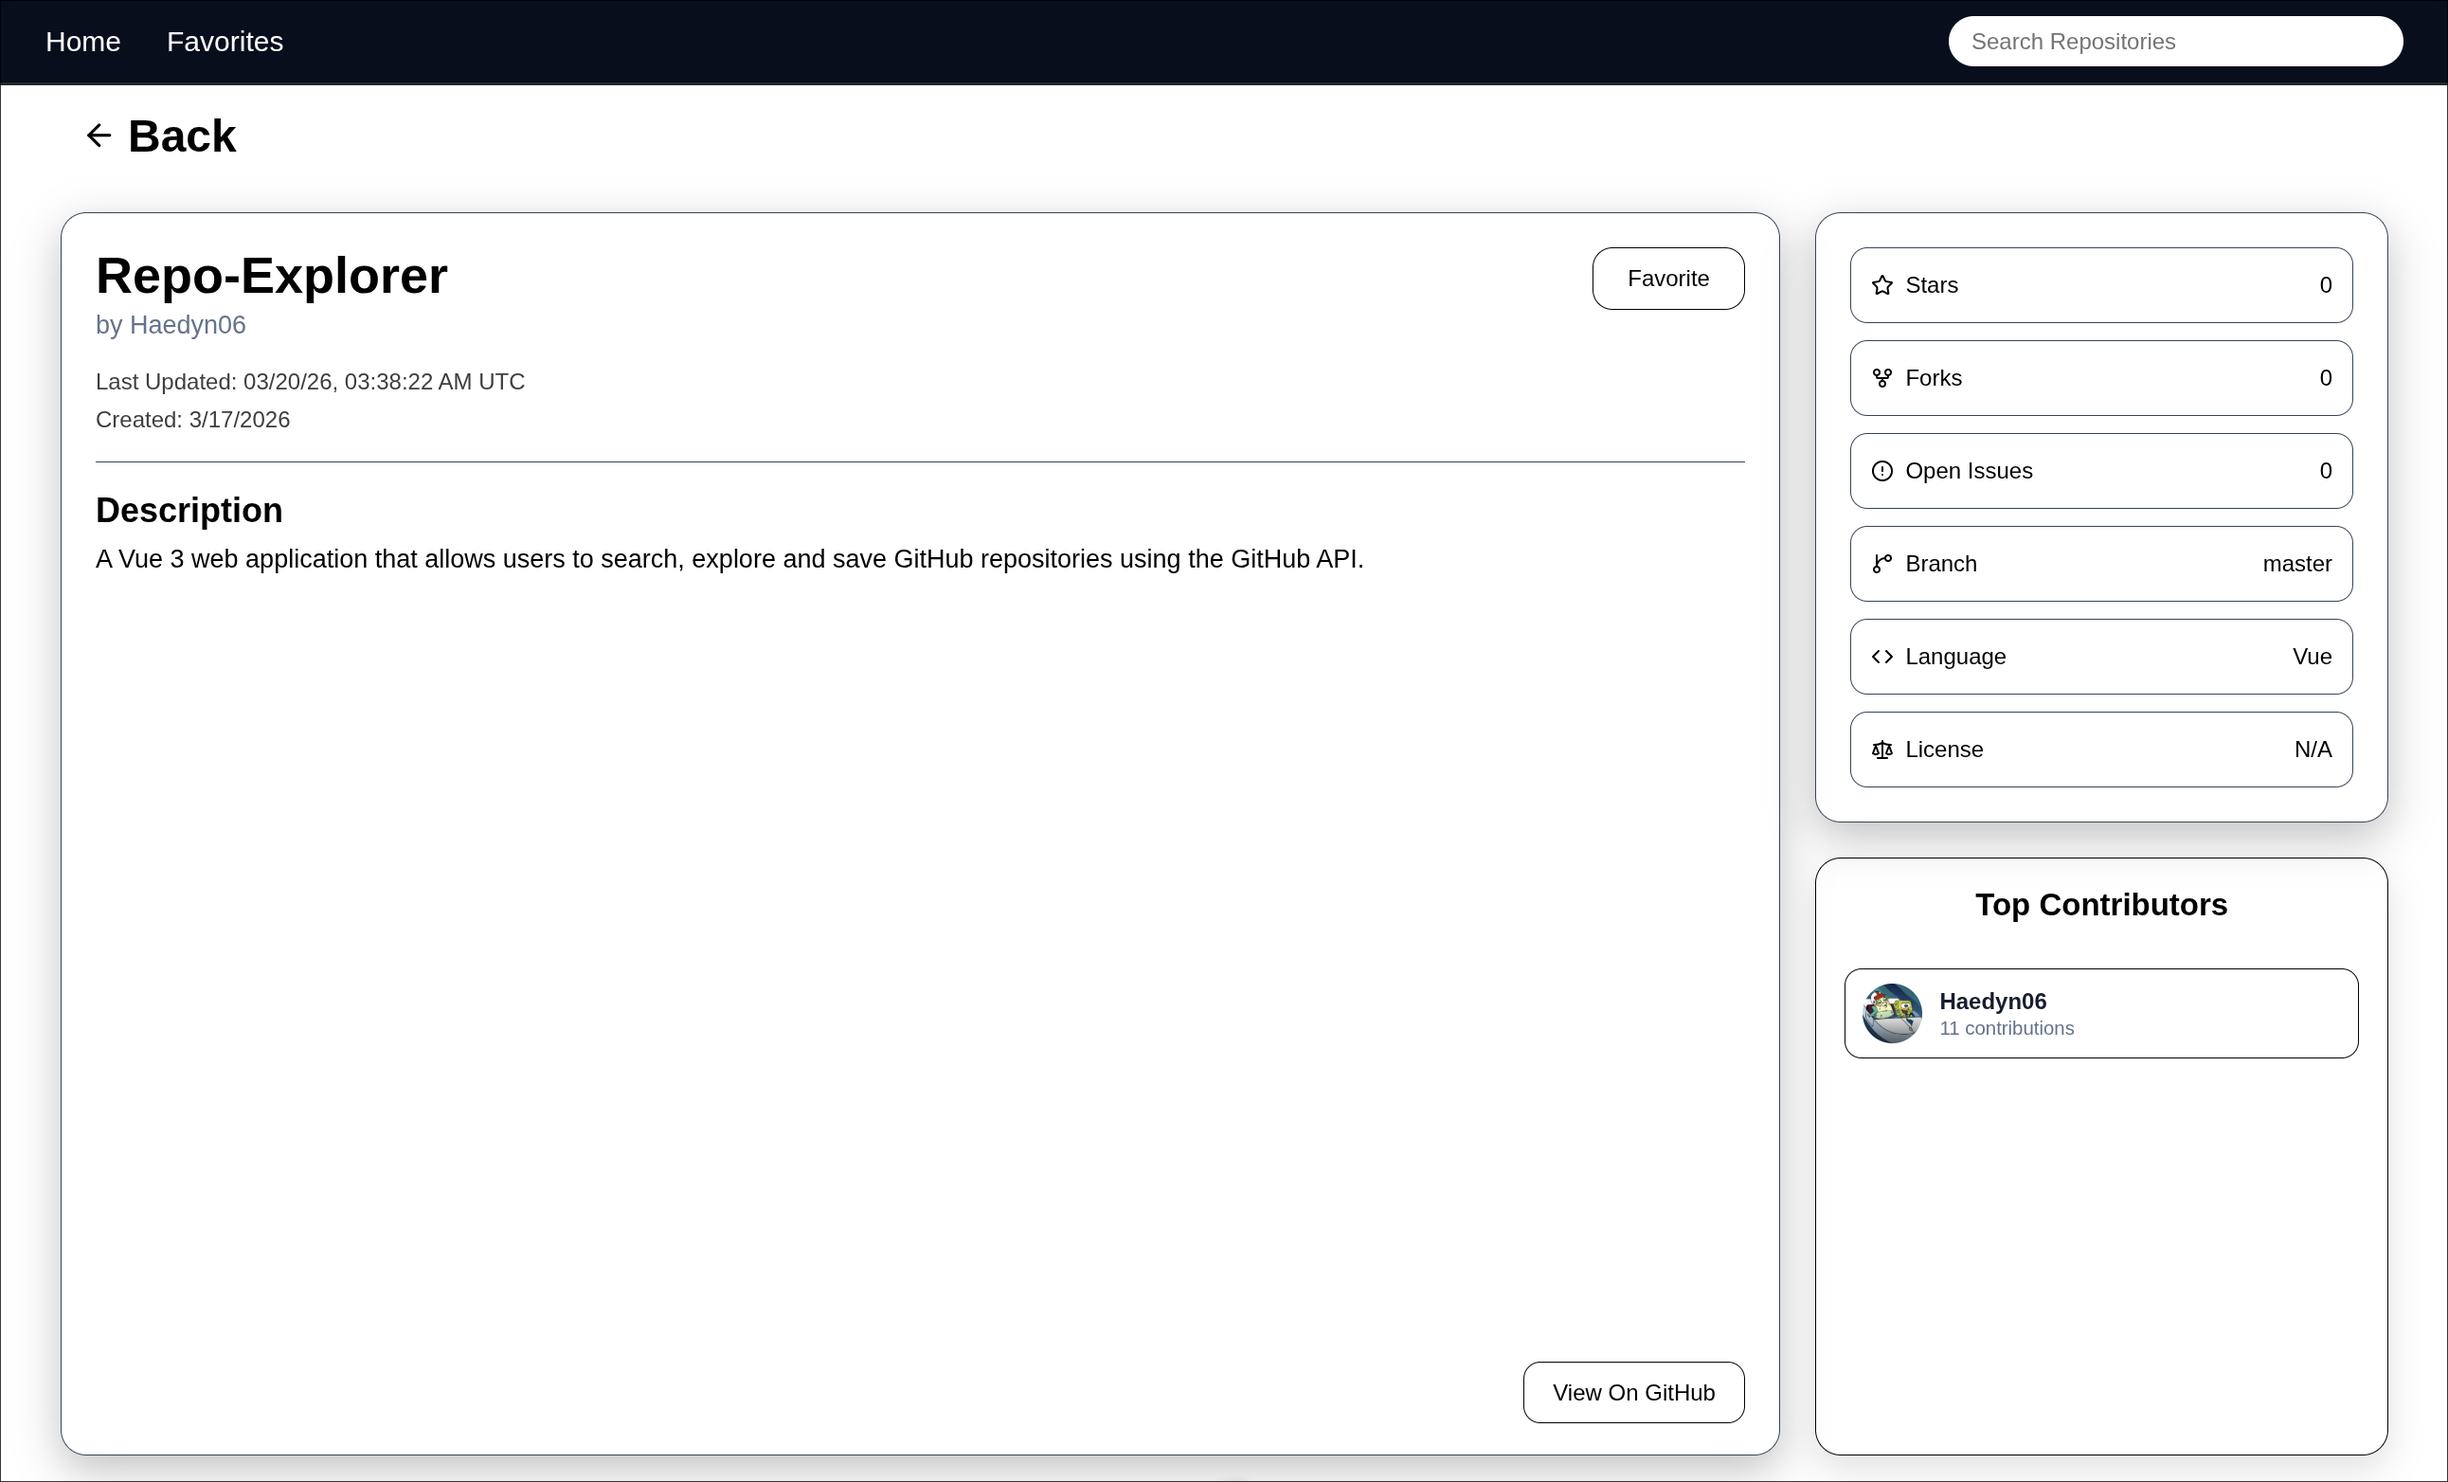
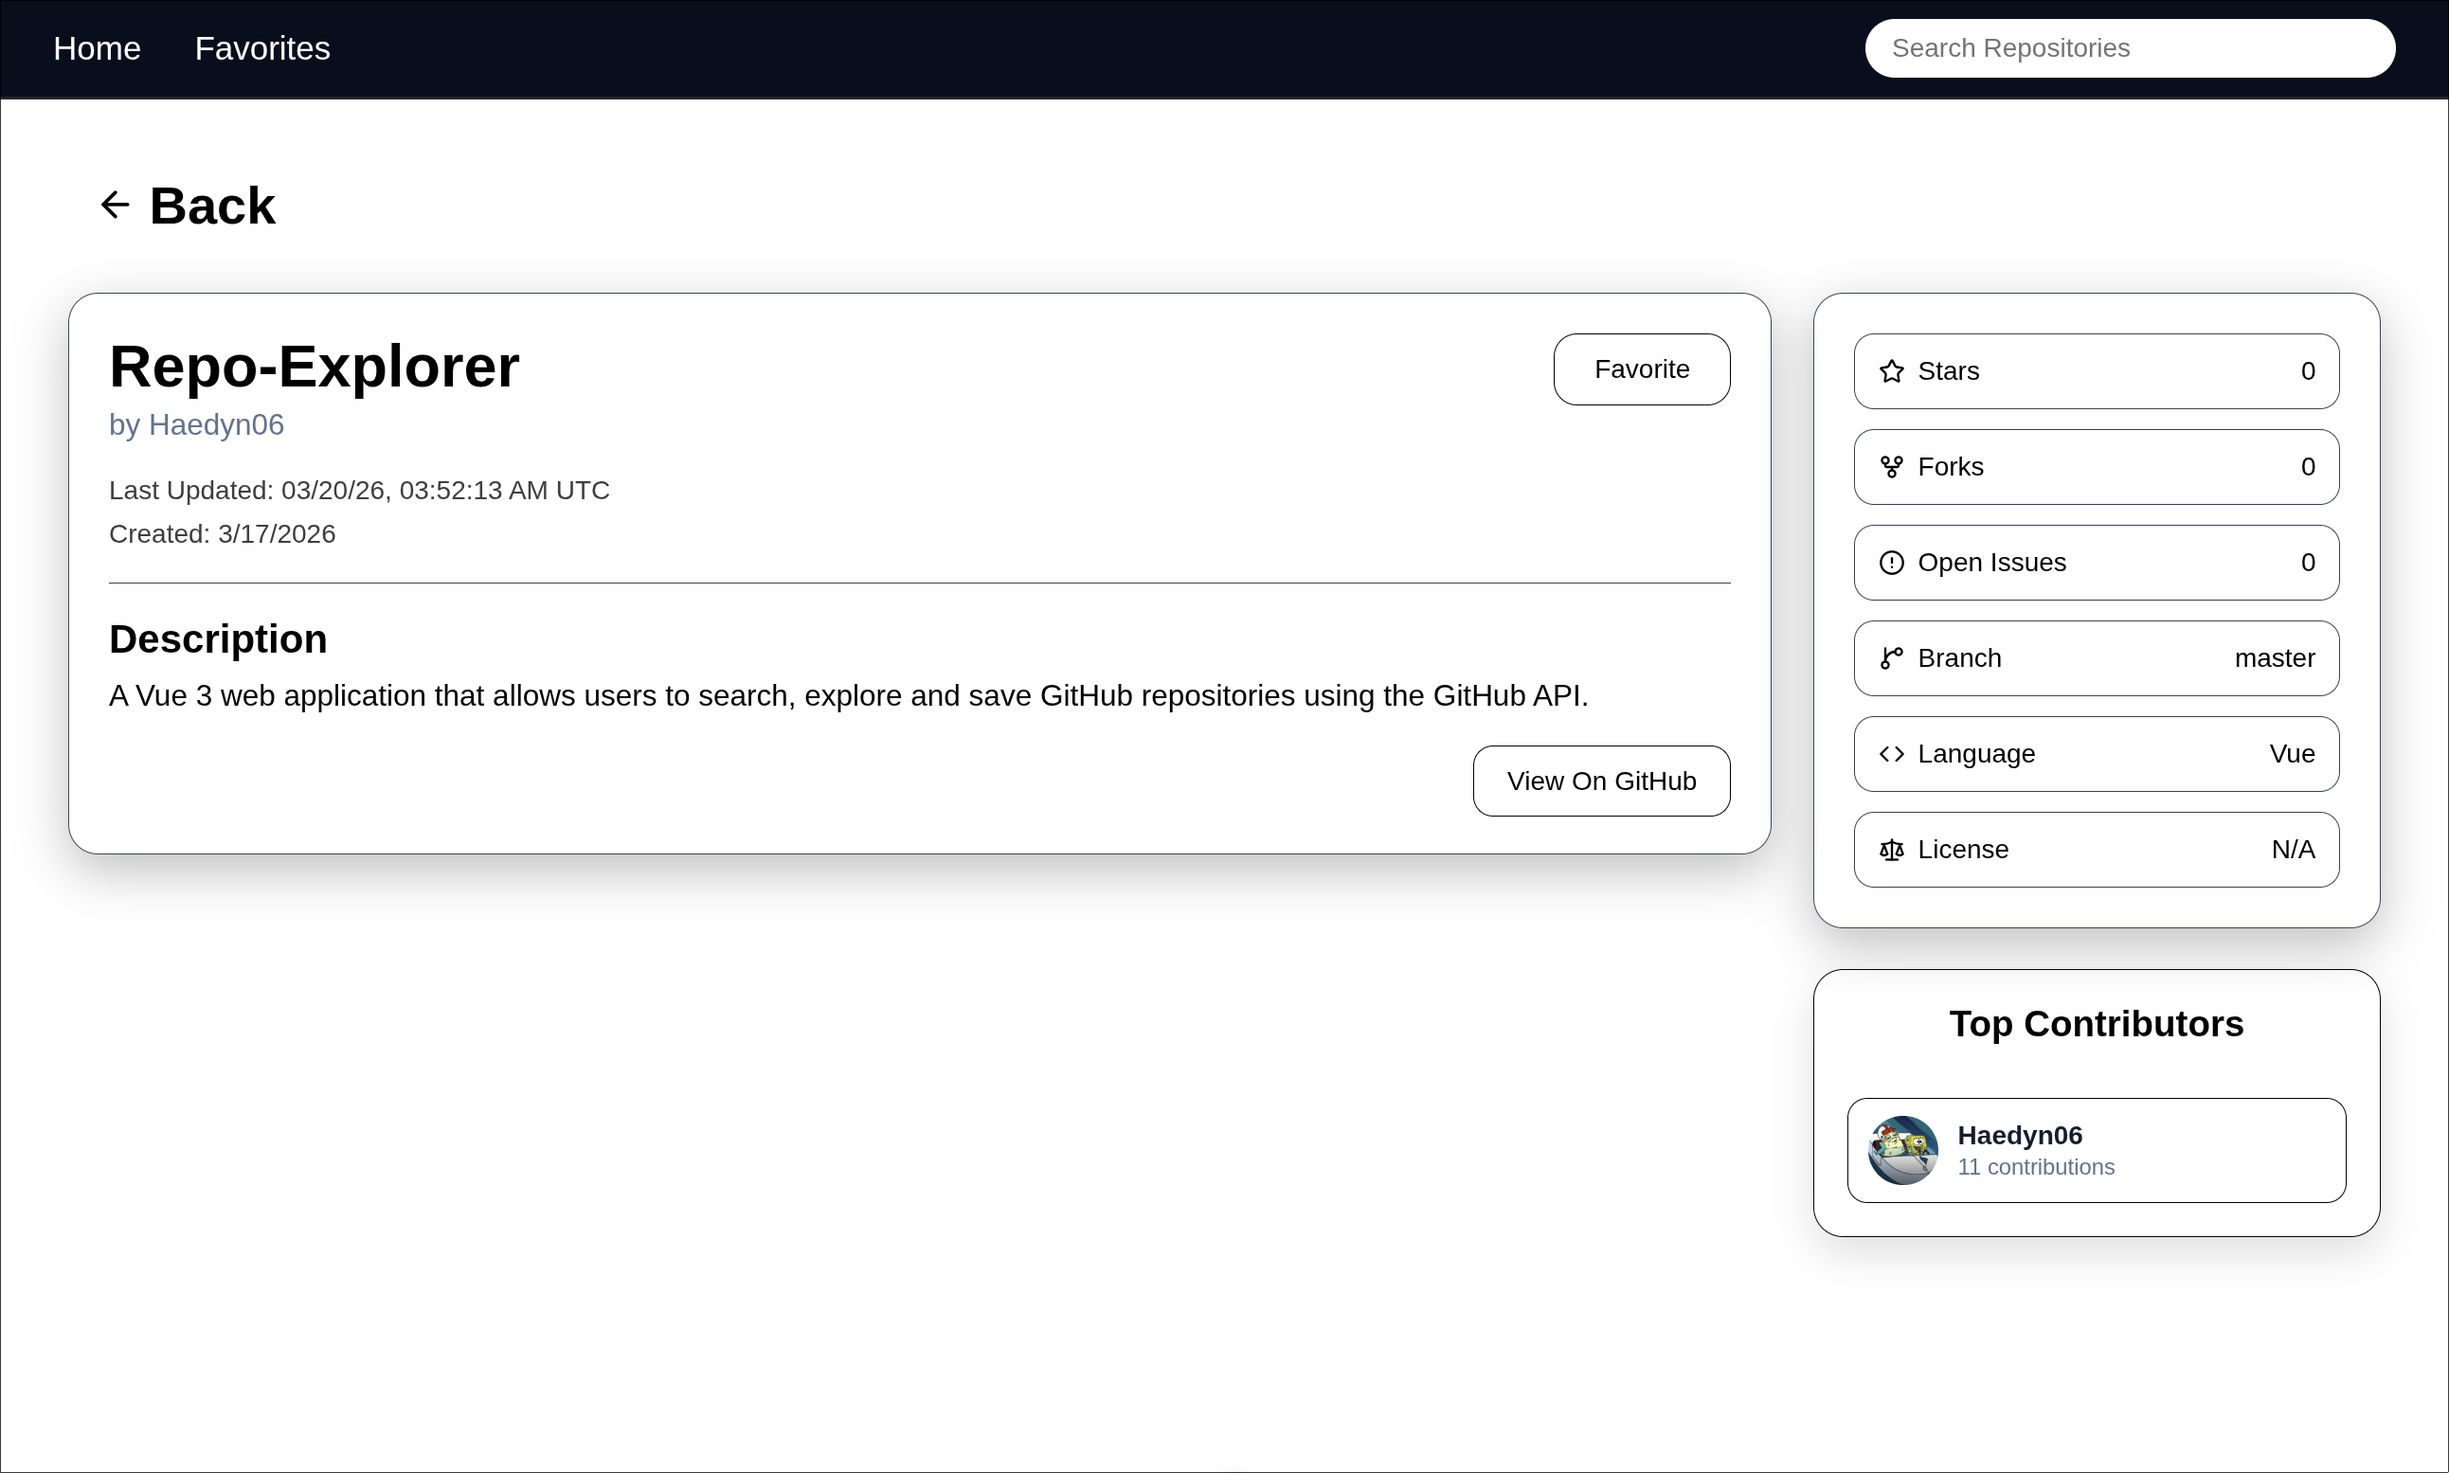
finalized

diff --git a/src/styles/RepoDetailsPage.css b/src/styles/RepoDetailsPage.css
@@ -8,7 +8,7 @@
     flex-direction: row;
     gap: 25px;
     margin-top: 20px;
-    align-items: stretch;
+    align-items: flex-start;
     min-height: 84vh;
     width: 100%;
 }
